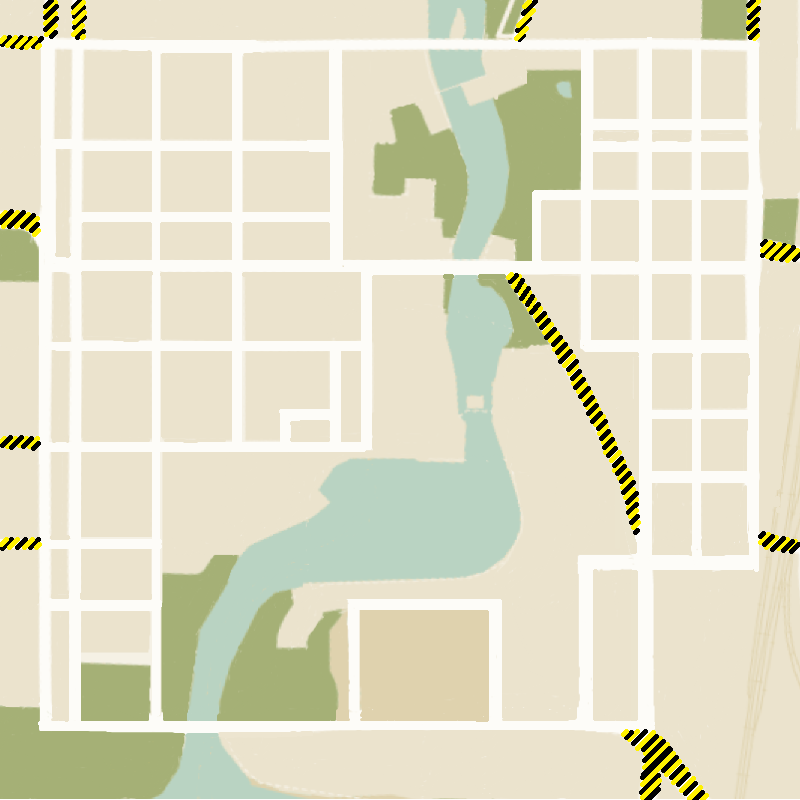
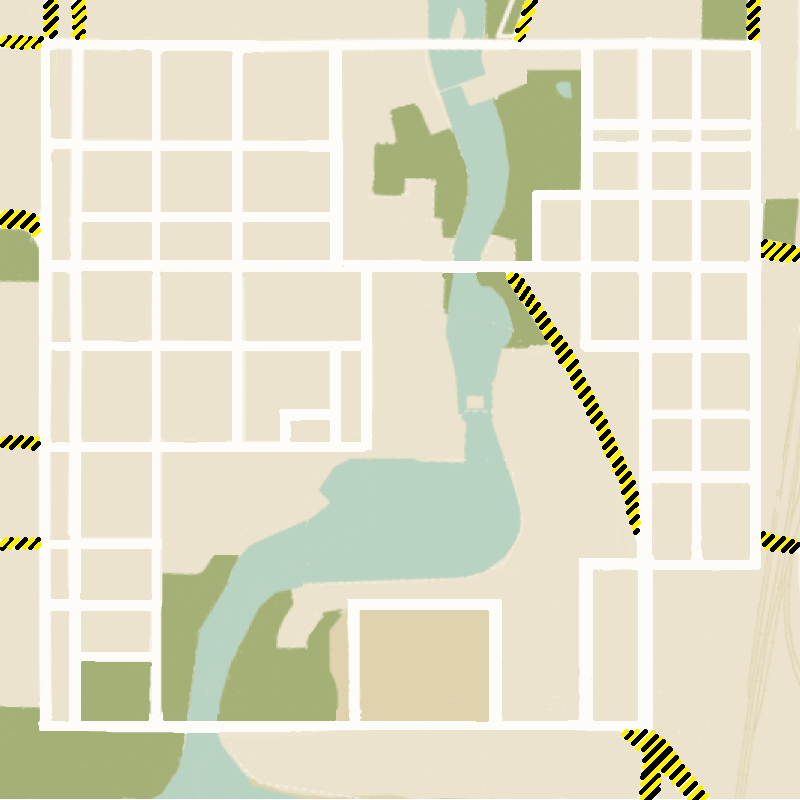
Added missing road to kaupunki.txt. Fixed crash if trying to input movement command before starting the game. Added a nice picture when you lose the game.

diff --git a/Game/mainwindow.cpp b/Game/mainwindow.cpp
@@ -157,7 +157,6 @@ void MainWindow::create_game()
 
     tick_timer_ = new QTimer(this);
     connect(tick_timer_, SIGNAL(timeout()), this, SLOT(tick_handler()));
-
     tick_timer_->start(15);
 
     ragemeter_ = ragescene_->addRect(0,0,40,150);
@@ -217,34 +216,36 @@ void MainWindow::spawn_pedestrians(int amount)
 
 void MainWindow::keyPressEvent(QKeyEvent* event)
 {
-    direction current_direction = bus_->return_direction();
-    switch (event->key())  {
-        case Qt::Key_W:
-            if (current_direction != DOWN) {
-                queued_direction_ = UP;
-            }
-            break;
+    if(game_running_){
+        direction current_direction = bus_->return_direction();
+        switch (event->key())  {
+            case Qt::Key_W:
+                if (current_direction != DOWN) {
+                    queued_direction_ = UP;
+                }
+                break;
 
-        case Qt::Key_A:
-            if (current_direction != RIGHT) {
-                queued_direction_ = LEFT;
-            }
-            break;
+            case Qt::Key_A:
+                if (current_direction != RIGHT) {
+                    queued_direction_ = LEFT;
+                }
+                break;
 
-        case Qt::Key_S:
-            if (current_direction != UP) {
-                queued_direction_ = DOWN;
-            }
-            break;
+            case Qt::Key_S:
+                if (current_direction != UP) {
+                    queued_direction_ = DOWN;
+                }
+                break;
 
-        case Qt::Key_D:
-            if (current_direction != LEFT) {
-                queued_direction_ = RIGHT;
-            }
-            break;
+            case Qt::Key_D:
+                if (current_direction != LEFT) {
+                    queued_direction_ = RIGHT;
+                }
+                break;
 
-        default:
-            ;
+            default:
+                ;
+        }
     }
 }
 
@@ -252,5 +253,7 @@ void MainWindow::end_game()
 {
     game_running_ = false;
     tick_timer_->stop();
+    QPixmap pix(":/images/GameOver.png");
+    scene_->addPixmap(pix);
 }
 
